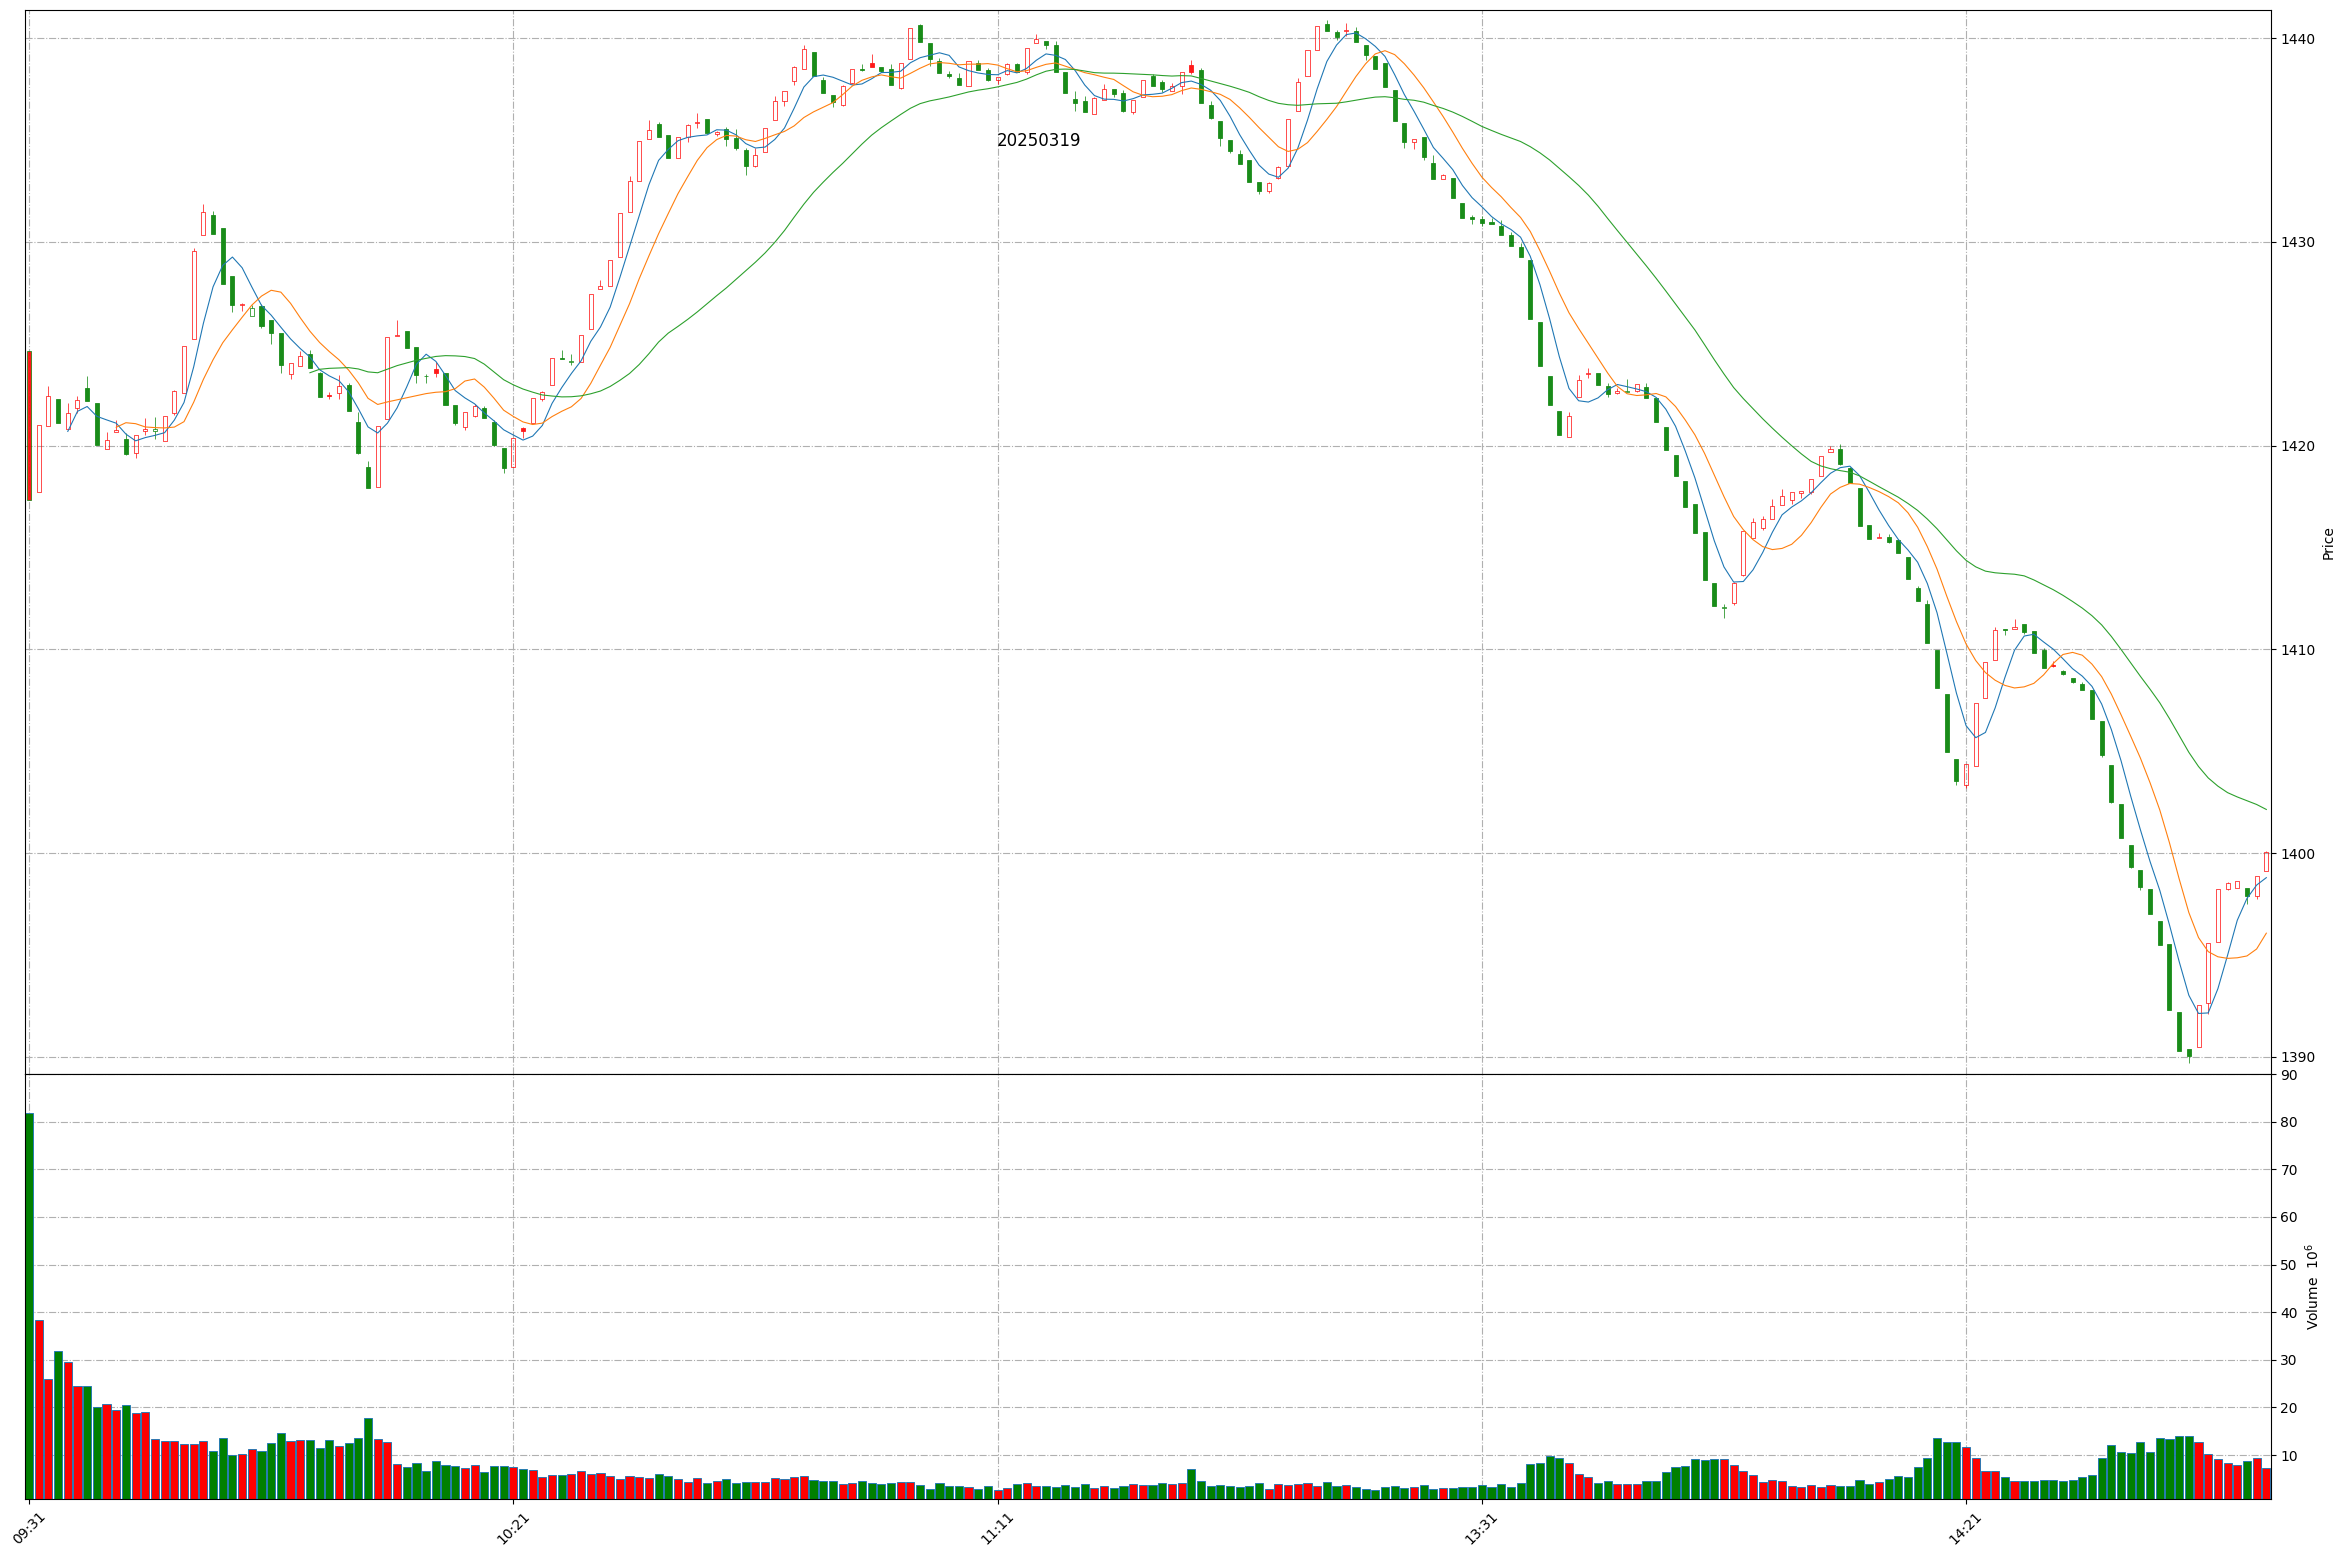
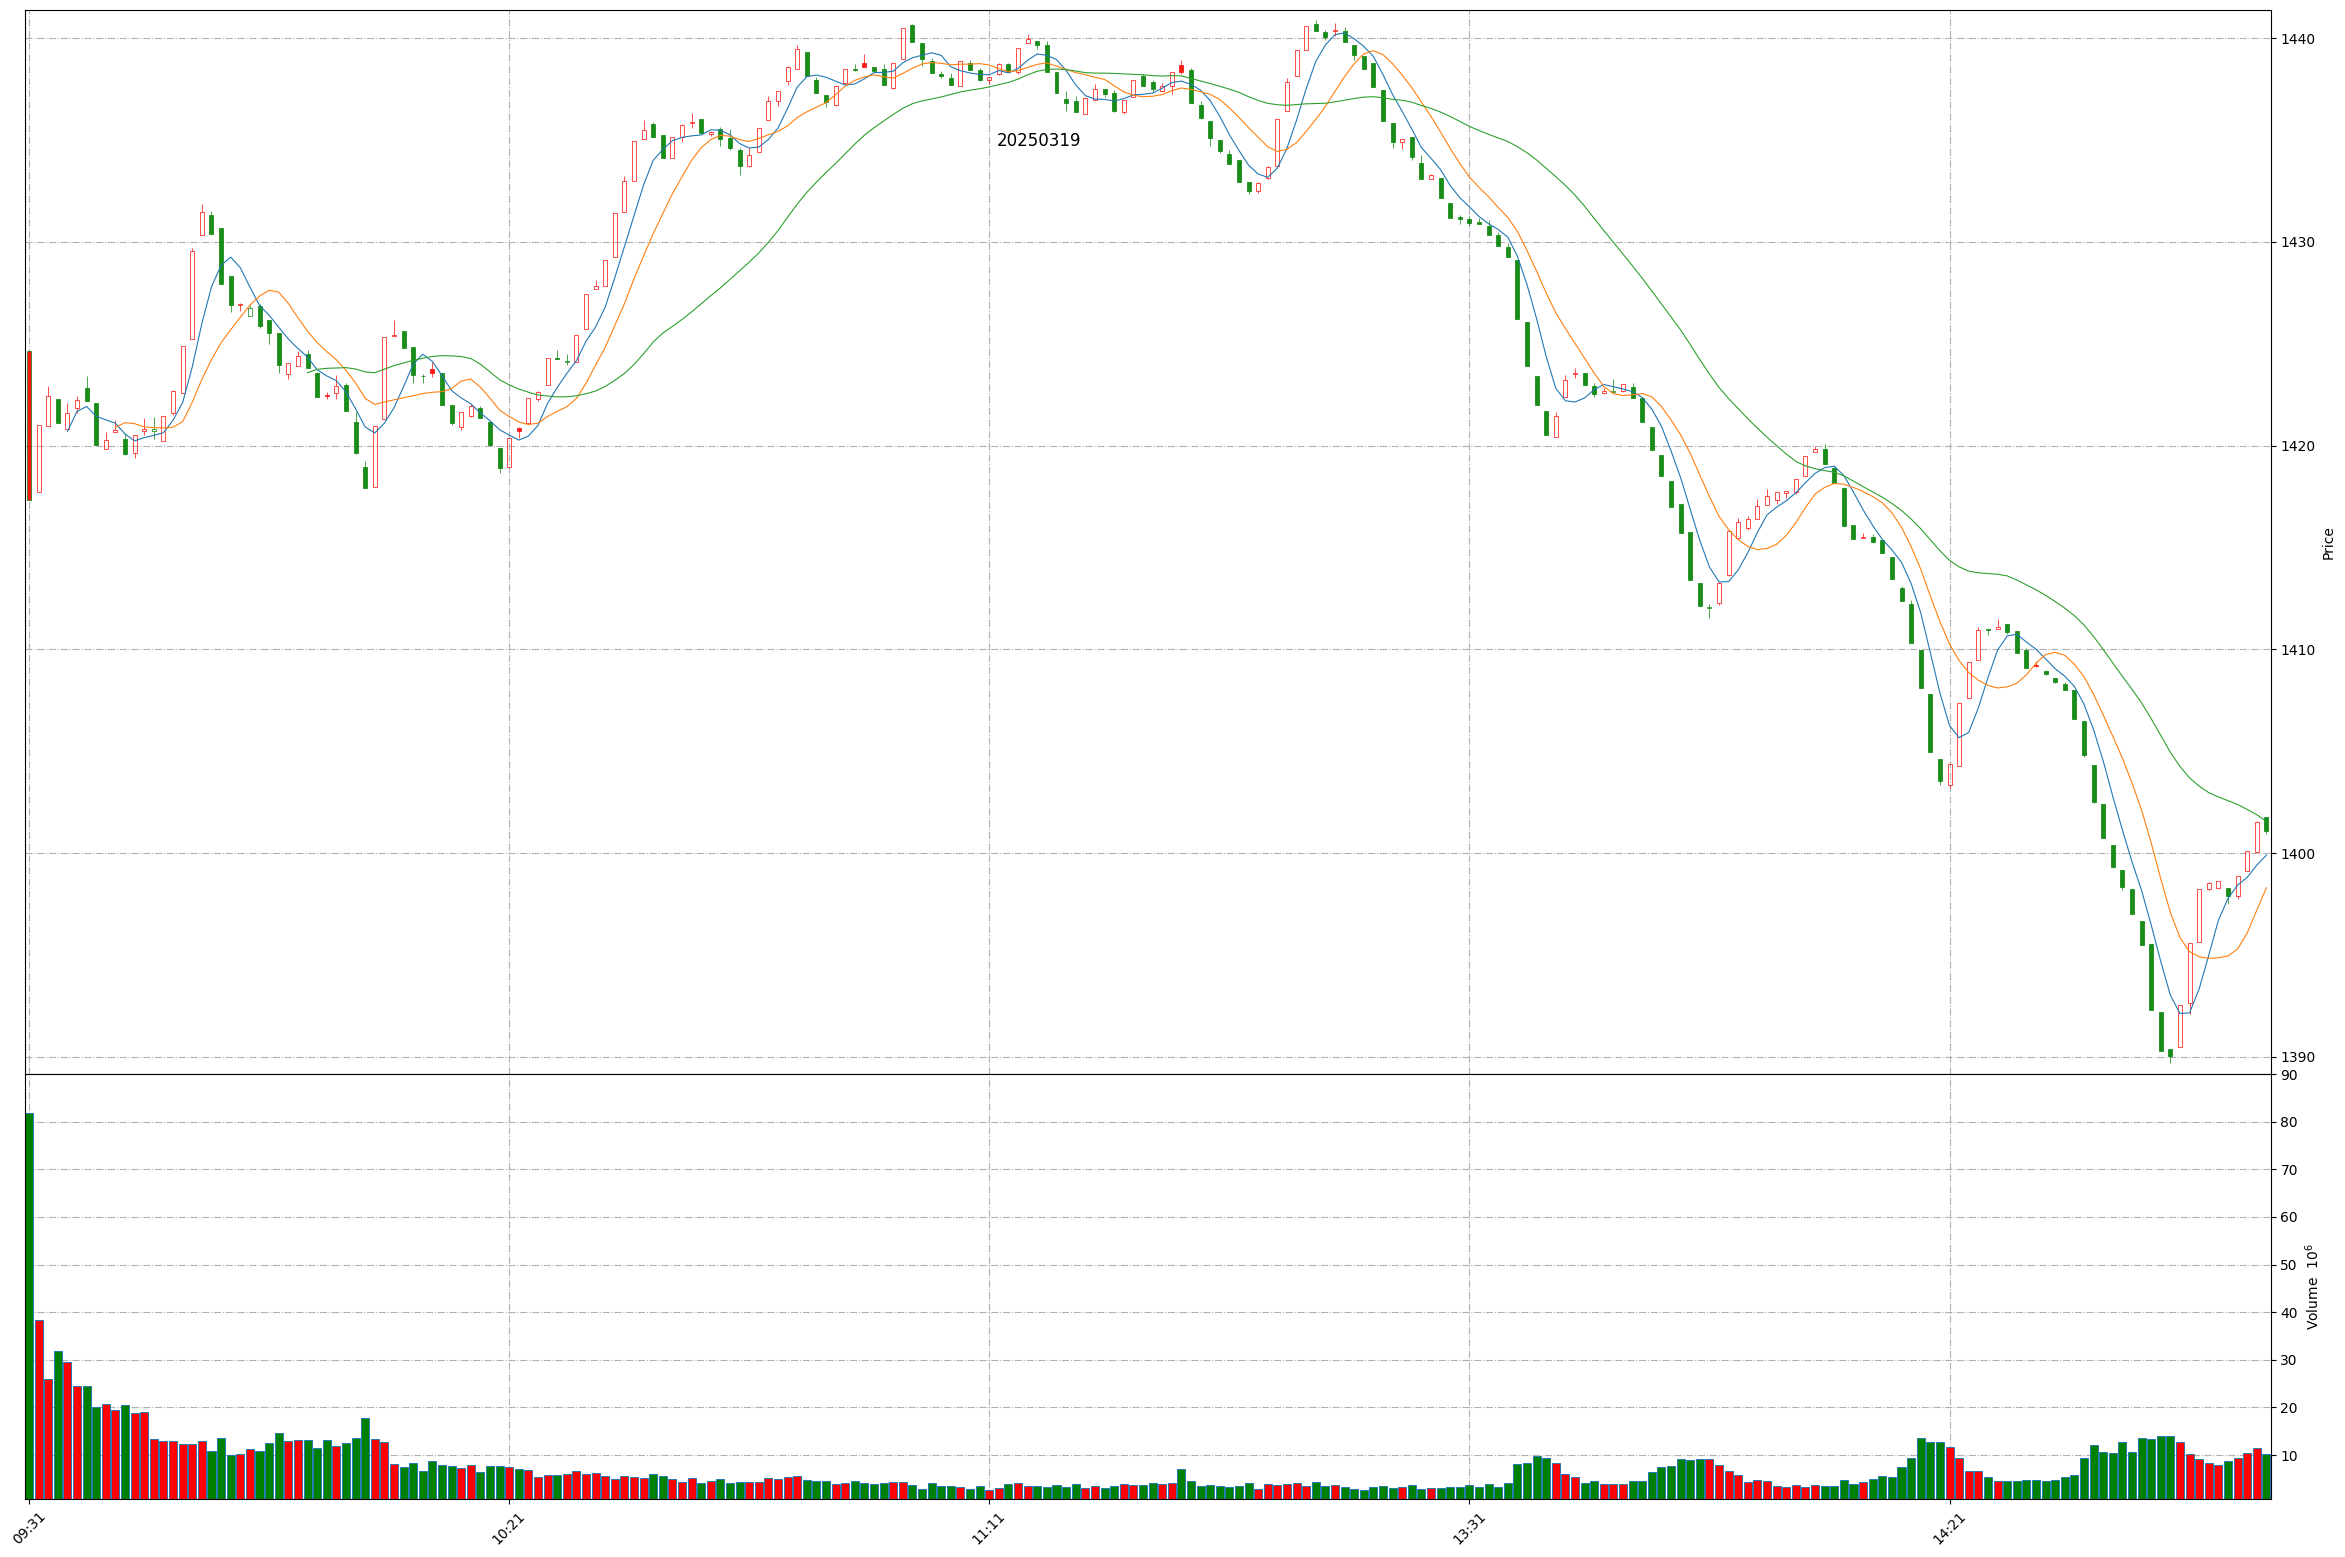
Github action update at 2025-03-19 14:54:05.

diff --git a/README.md b/README.md
@@ -1,11 +1,11 @@
 
 # Daily-A-share-market-quotes 每日 A 股指数（5min 更新）- 20250319
 
-### 上证指数 20250319 14:51
+### 上证指数 20250319 14:54
 ![](./fig/2025/3/20250319-sh000001.png)
 
-### 深证成指 20250319 14:51
+### 深证成指 20250319 14:54
 ![](./fig/2025/3/20250319-sz399001.png)
 
-### 北证50 20250319 14:51
+### 北证50 20250319 14:54
 ![](./fig/2025/3/20250319-bj899050.png)
